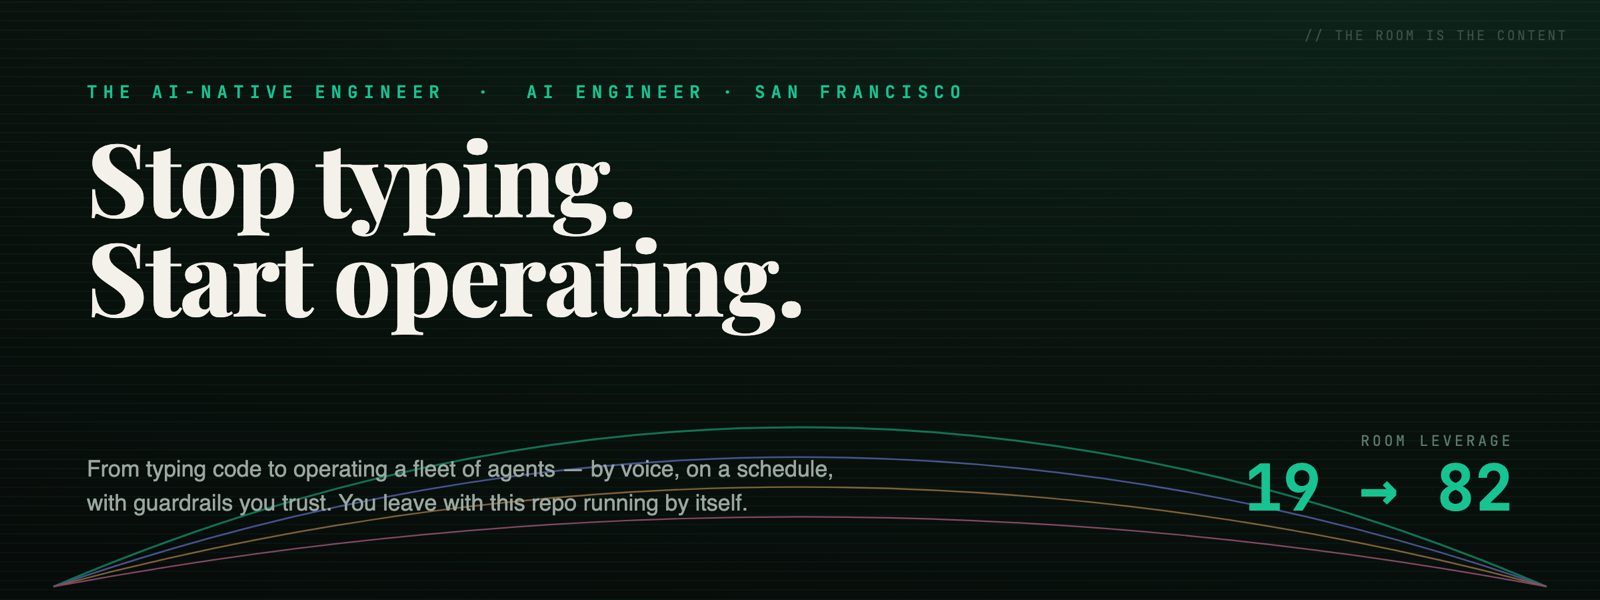
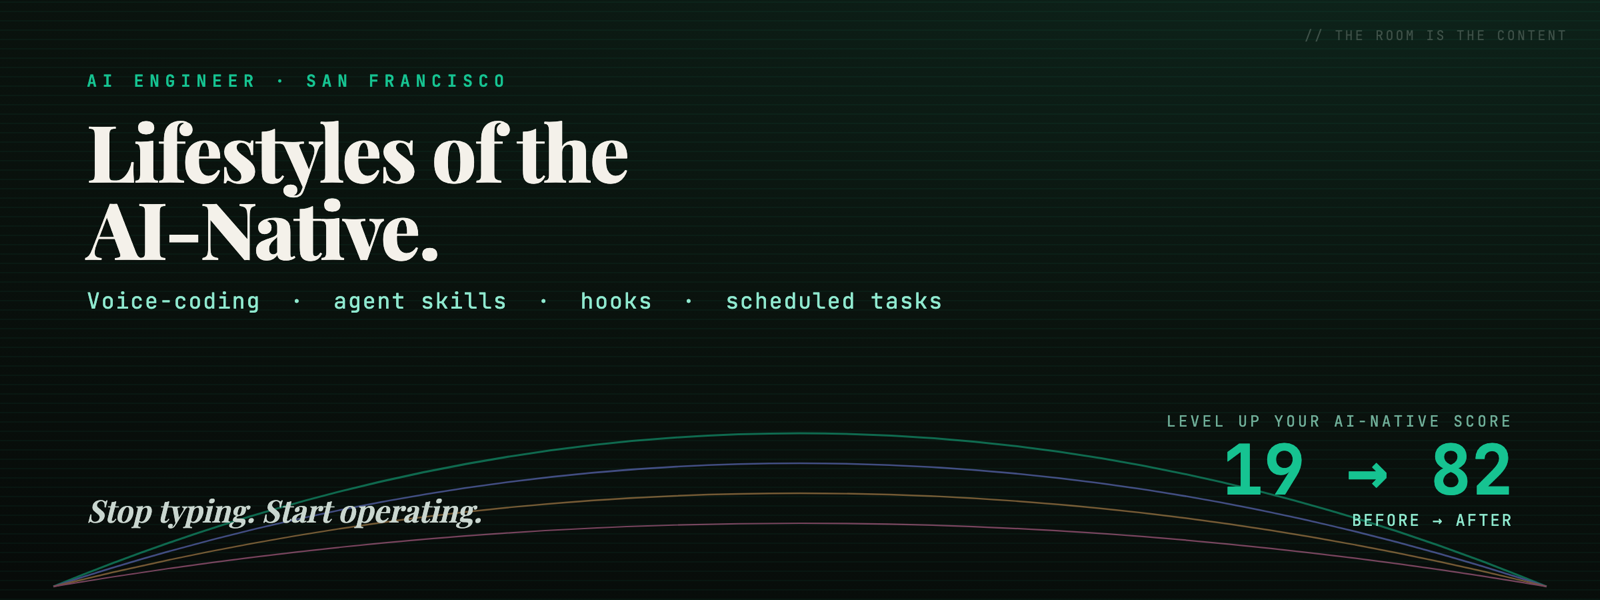
Real title "Lifestyles of the AI-Native"; remove placeholders; fix deck bugs
- Rename the workshop everywhere: "The AI-Native Engineer" → "Lifestyles of the
  AI-Native" (subtitle: voice-coding · agent skills · hooks · scheduled tasks).
  New hero banner; cover slide retitled + topic descriptor added. ("AI-Native
  Glossary" sub-brand preserved.)
- Hero banner: relabel the 19→82 stat to "LEVEL UP YOUR AI-NATIVE SCORE ·
  before → after" so it reads clearly (was "ROOM LEVERAGE").
- Remove the two placeholder slides (fun artifact / post-workshop) and their
  notes; clean the payoff slide's "(placeholder)" text.
- Fix a speaker-notes/section misalignment: the added "Why Handy" slide had no
  note (77 sections / 76 notes) — added it; deck now 75 sections == 75 notes,
  JSON valid.
- Redeployed deck, board, glossary with the new title.

Note on the AI-Native score: left Nick's scan/score as-is (scheduledJobs:0 is
deliberate + test-pinned; the score still rises via hooks/context/worktrees/
delegation; the scheduling payoff lives in the board's hours + automations).

diff --git a/slides/public/index.html b/slides/public/index.html
@@ -4,8 +4,8 @@
 <meta charset="utf-8" />
 <meta name="robots" content="noindex, nofollow" />
 <meta name="viewport" content="width=device-width, initial-scale=1" />
-<title>The AI-Native Engineer — AI Engineer SF</title>
-<meta name="description" content="The AI-Native Engineer — a hands-on workshop. Stop typing. Start operating." />
+<title>Lifestyles of the AI-Native — AI Engineer SF</title>
+<meta name="description" content="Lifestyles of the AI-Native — a hands-on workshop. Stop typing. Start operating." />
 <link rel="stylesheet" href="colors_and_type.css" />
 <link rel="stylesheet" href="deck-animations.css?v=1" />
 <style>
@@ -895,11 +895,12 @@
       <img src="img/qr-board.png" alt="Live board QR" class="qr-img" />
     </div>
     <div class="stripe"></div>
-    <div class="frame" style="padding-top: 230px; justify-content: flex-start; gap: 6px;">
+    <div class="frame" style="padding-top: 196px; justify-content: flex-start; gap: 6px;">
       <div class="eyebrow" style="margin-bottom: 30px;">AI Engineer &middot; San Francisco</div>
-      <h1 class="deck-title cover-line">The AI-Native</h1>
-      <h1 class="deck-title cover-line"><span class="underline-accent">Engineer</span>.</h1>
-      <p class="tagline">Stop typing. Start operating.</p>
+      <h1 class="deck-title cover-line" style="font-size: 132px;">Lifestyles of the</h1>
+      <h1 class="deck-title cover-line" style="font-size: 132px;"><span class="underline-accent">AI-Native</span>.</h1>
+      <p class="mono" style="font-size: 30px; color: #8fe9cf; letter-spacing: .04em; margin-top: 30px;">Voice-coding &middot; agent skills &middot; hooks &middot; scheduled tasks</p>
+      <p class="tagline" style="margin-top: 18px;">Stop typing. Start operating.</p>
     </div>
     <div class="meta">
       <div>
@@ -1915,7 +1916,7 @@
       </div>
       <div class="mega">
         <div>+<span data-count-to="168" data-count-from="0">0</span></div>
-        <div class="unit">hours / week reclaimed &mdash; across the room <span class="subtle">(placeholder &mdash; the board fills in the real number live)</span></div>
+        <div class="unit">hours / week reclaimed &mdash; across the room <span class="subtle">(call out the live number from the board)</span></div>
       </div>
     </div>
   </section>
@@ -2065,29 +2066,6 @@
     </div>
   </section>
 
-  <!-- ============ 53 PLACEHOLDER · THE FUN ARTIFACT ============ -->
-  <section data-label="Placeholder · Fun artifact" class="grain">
-    <div class="frame" style="justify-content: center;">
-      <div class="eyebrow placeholder" style="margin-bottom: 36px;">Placeholder</div>
-      <h2 class="deck-h2" style="font-size: 104px; margin-bottom: 36px;">The fun artifact <span class="muted">(TBD)</span>.</h2>
-      <p class="lead muted" style="max-width: 1620px;">
-        A take-home built live from the room's own data &mdash; final form TBD. Drop the real artifact, screenshot, or QR here before the session.
-      </p>
-      <p class="ph-note">PLACEHOLDER &mdash; replace before presenting.</p>
-    </div>
-  </section>
-
-  <!-- ============ 54 PLACEHOLDER · POST-WORKSHOP ============ -->
-  <section data-label="Placeholder · Post workshop" class="grain">
-    <div class="frame" style="justify-content: center;">
-      <div class="eyebrow placeholder" style="margin-bottom: 36px;">Placeholder</div>
-      <h2 class="deck-h2" style="font-size: 104px; margin-bottom: 36px;">Post-workshop: keep <span class="underline-accent">building</span>.</h2>
-      <p class="lead muted" style="max-width: 1620px;">
-        Where to go next &mdash; the repo, the schedule you set, and how to reach us. Fill in the real links/QRs before the session.
-      </p>
-      <p class="ph-note">PLACEHOLDER &mdash; replace before presenting.</p>
-    </div>
-  </section>
 
 </deck-stage>
 
@@ -2119,6 +2097,7 @@
   "Good driving. Say the outcome, not the keystrokes. Contrast the muted keystroke list against the clean intent.",
   "What good voice prompts sound like. Three real examples — fix, refactor, non-code. State the outcome; let the agent choose the keystrokes.",
   "The unlock. Big line. 180 wpm; manufacture work in parallel. Capstone of the voice teaching.",
+  "Why Handy. Free, local, private, on-device — versus cloud dictation like WisprFlow (which has its place). For a room of 100 laptops, local + free + no sign-up wins.",
   "Now you try it — Voice. Hands off the keyboard. Signal it's time to practice.",
   "Activity — get voice working. Give them ~5 minutes; walk the room.",
   "Activity — fix a bug out loud. Give them a few minutes; walk the room. Push them to keep talking, no keyboard.",
@@ -2154,7 +2133,7 @@
   "Now you try it — Scheduled tasks. Set it once; let it run without you.",
   "Activity — schedule your work. Give them several minutes; walk the room. Help them phrase the recurring job.",
   "Activity — close the loop. Give them a minute; walk the room. Then watch the room migrate from toil to leverage.",
-  "The payoff. Mirror the board: toil migrates to leverage. The +168 is a placeholder — call out the real number from the live board.",
+  "The payoff. Mirror the board: toil migrates to leverage. The +168 is illustrative — call out the real number from the live board.",
   "Questions divider. Dead-air insurance — skip if you're on time; rich if you're not.",
   "Q — slower than typing? You're not dictating syntax; you state the outcome and the agent writes it. Speed of thought, ~150 wpm, not ~60.",
   "Q — talk the whole time? No. Voice is for direction; read, click, type when faster. Operators switch fluidly.",
@@ -2166,9 +2145,7 @@
   "Q — need to be a strong engineer? No. The skill is describing outcomes and setting up gates — leverage for any level.",
   "Q — after today? Keep the repo, the scheduled task, the glossary. Re-run a check-in next week to see your before→after.",
   "Keep building. You keep all of it: the repo and skills, your scheduled task (still running Monday), the glossary, your before→after on the board.",
-  "Close. You're an operator now. Recap the four ticked items. Keep the repo, keep the scheduled task.",
-  "PLACEHOLDER — the fun artifact, TBD. Swap in the real take-home before presenting.",
-  "PLACEHOLDER — post-workshop: keep building. Add the real links/QRs before presenting."
+  "Close. You're an operator now. Recap the four ticked items. Keep the repo, keep the scheduled task."
 ]
 </script>
 

diff --git a/board/admin.html b/board/admin.html
@@ -3,7 +3,7 @@
 <head>
 <meta charset="utf-8">
 <meta name="viewport" content="width=device-width, initial-scale=1">
-<title>The AI-Native Engineer — Admin</title>
+<title>Lifestyles of the AI-Native — Admin</title>
 <style>
   /* refined dark "terminal" palette — matches the board */
   :root { --bg:#0d1117; --panel:#141b26; --ink:#e8edf4; --dim:#65748a; --acc:#16c391; --line:#243044; }
@@ -33,7 +33,7 @@
 </head>
 <body>
   <div class="card">
-    <div class="eyebrow">The AI-Native Engineer · AIE SF</div>
+    <div class="eyebrow">Lifestyles of the AI-Native · AIE SF</div>
     <h1>Board admin</h1>
     <label>Admin token</label>
     <input id="tok" type="password" placeholder="aieadmin-…" autocomplete="off">

diff --git a/board/board.html b/board/board.html
@@ -25,7 +25,7 @@
 <head>
 <meta charset="utf-8">
 <meta name="viewport" content="width=device-width, initial-scale=1">
-<title>The AI-Native Engineer — The Room, Right Now</title>
+<title>Lifestyles of the AI-Native — The Room, Right Now</title>
 <style>
 /* No @import, no /fonts/, no CDN — pure system stacks (offline-safe). */
 
@@ -245,7 +245,7 @@ body{
 
     <header id="masthead">
       <div class="mast-left">
-        <div class="eyebrow">The AI-Native Engineer · AIE SF · The room, right now</div>
+        <div class="eyebrow">Lifestyles of the AI-Native · AIE SF · The room, right now</div>
         <h1 id="headline">Reading the room…</h1>
         <div id="phase-line"><span class="dot"></span><span id="phase-text">Walking in</span></div>
       </div>

diff --git a/board/src/index.ts b/board/src/index.ts
@@ -1,5 +1,5 @@
 /**
- * aie-board — live room board for "The AI-Native Engineer" workshop (AIE SF).
+ * aie-board — live room board for "Lifestyles of the AI-Native" workshop (AIE SF).
  *
  * The realtime "wow" service. The coach check-in skill interviews each attendee
  * (opt-in, volunteered data only — nothing is ever scanned off their machine) and

diff --git a/glossary/src/worker.ts b/glossary/src/worker.ts
@@ -73,7 +73,7 @@ function buildSystemPrompt(): string {
     )
     .join('\n\n')
 
-  return `You are the live assistant for "The AI-Native Glossary" — a page built for The AI-Native Engineer workshop at AI Engineer in San Francisco, by Zack Proser and Nick Nisi. The audience is working engineers learning to operate fleets of agents by voice, in loops, behind verification gates, and on a schedule.
+  return `You are the live assistant for "The AI-Native Glossary" — a page built for Lifestyles of the AI-Native workshop at AI Engineer in San Francisco, by Zack Proser and Nick Nisi. The audience is working engineers learning to operate fleets of agents by voice, in loops, behind verification gates, and on a schedule.
 
 Your job: answer questions about AI concepts, the glossary's terms, and how an operator works — in the same voice as the glossary: plain language, direct, warm, concrete. There are no dumb questions.
 

diff --git a/.claude/skills/coach-checkin/SKILL.md b/.claude/skills/coach-checkin/SKILL.md
@@ -1,11 +1,11 @@
 ---
 name: coach-checkin
-description: Run the opt-in AI-Native Engineer workshop check-in. Use at the start of the workshop and again at the close. Auto-detects opening vs closing, runs the short interview, records your AI-Native score from a LOCAL scan at the open, and at the close posts your answers and your before→after score (anonymously) to the live room board. Triggers on "check in", "coach check-in", "workshop check-in", "run my workshop check-in", "closing check-in", or "share my workflow".
+description: Run the opt-in Lifestyles of the AI-Native workshop check-in. Use at the start of the workshop and again at the close. Auto-detects opening vs closing, runs the short interview, records your AI-Native score from a LOCAL scan at the open, and at the close posts your answers and your before→after score (anonymously) to the live room board. Triggers on "check in", "coach check-in", "workshop check-in", "run my workshop check-in", "closing check-in", or "share my workflow".
 ---
 
 # Coach Check-in
 
-A short, **opt-in** check-in for *The AI-Native Engineer* workshop. You run it twice — once walking in, once at the close. Each run does two things: a quick **interview** (what's eating your week → what you built) and an **AI-Native score** read from your local setup. Together they feed the live room board: where the room's toil is, which hooks and scheduled tasks to build, the engineering-hours/week the room reclaims, and the room's **before→after AI-Native score**.
+A short, **opt-in** check-in for *Lifestyles of the AI-Native* workshop. You run it twice — once walking in, once at the close. Each run does two things: a quick **interview** (what's eating your week → what you built) and an **AI-Native score** read from your local setup. Together they feed the live room board: where the room's toil is, which hooks and scheduled tasks to build, the engineering-hours/week the room reclaims, and the room's **before→after AI-Native score**.
 
 **Privacy is the whole point.** The score is computed by a **local** scan of your Claude setup (do you have hooks? a CLAUDE.md? worktrees? scheduled jobs?) that **never leaves your machine** — only the derived score *numbers* and the answers you explicitly confirm are sent. No file contents, no `git log`, no transcripts are ever transmitted. Responses are anonymous: a random participant id plus your role/stack — no name, no email.
 

diff --git a/.claude/skills/setup-workshop/SKILL.md b/.claude/skills/setup-workshop/SKILL.md
@@ -1,6 +1,6 @@
 ---
 name: setup-workshop
-description: One-shot setup for The AI-Native Engineer workshop. Installs and verifies everything an attendee needs for the full hour — Bun (the check-in tool), the Codex CLI (Block 3 adversarial review), Handy (Block 1 voice), and git — then confirms the repo is wired up and hands off to the opening check-in. Triggers on "set me up for the workshop", "get me set up", "workshop setup", "set up the workshop", or starting the workshop.
+description: One-shot setup for Lifestyles of the AI-Native workshop. Installs and verifies everything an attendee needs for the full hour — Bun (the check-in tool), the Codex CLI (Block 3 adversarial review), Handy (Block 1 voice), and git — then confirms the repo is wired up and hands off to the opening check-in. Triggers on "set me up for the workshop", "get me set up", "workshop setup", "set up the workshop", or starting the workshop.
 ---
 
 # Set up the workshop
@@ -42,7 +42,7 @@ The fast path. This gets an attendee from a freshly-cloned repo to **ready for B
 
    ```
    ══════════════════════════════════════════════════════════
-    AI-Native Engineer · workshop setup
+    Lifestyles of the AI-Native · workshop setup
    ══════════════════════════════════════════════════════════
     [✓] Bun         1.3.14
     [✓] Codex CLI   0.x installed

diff --git a/slides/README.md b/slides/README.md
@@ -1,6 +1,6 @@
-# The AI-Native Engineer — slides
+# Lifestyles of the AI-Native — slides
 
-Animated HTML slide deck for the **"The AI-Native Engineer"** workshop
+Animated HTML slide deck for the **"Lifestyles of the AI-Native"** workshop
 (AI Engineer / AIE, San Francisco). Tagline: *Stop typing. Start operating.*
 Presenters: Zack Proser & Nick Nisi.
 

diff --git a/.claude/skills/setup-handy/SKILL.md b/.claude/skills/setup-handy/SKILL.md
@@ -1,6 +1,6 @@
 ---
 name: setup-handy
-description: Install and configure Handy, the free, local, open-source push-to-talk voice dictation app, so the user can voice-code in any terminal. Use when someone wants to set up voice input / dictation / "talk to Claude", asks to "set up Handy" or "set up voice coding", or is starting the AI-Native Engineer workshop. Detects macOS vs. Windows and walks through install, model download, permissions, and a hotkey test.
+description: Install and configure Handy, the free, local, open-source push-to-talk voice dictation app, so the user can voice-code in any terminal. Use when someone wants to set up voice input / dictation / "talk to Claude", asks to "set up Handy" or "set up voice coding", or is starting the Lifestyles of the AI-Native workshop. Detects macOS vs. Windows and walks through install, model download, permissions, and a hotkey test.
 ---
 
 # Set up Handy (voice coding)

diff --git a/README.md b/README.md
@@ -1,6 +1,6 @@
 <div align="center">
 
-<a href="https://aie-deck.workos-internal.workers.dev"><img src="docs/images/readme-hero.png" alt="The AI-Native Engineer — Stop typing. Start operating. Room leverage 19 → 82." width="100%" /></a>
+<a href="https://aie-deck.workos-internal.workers.dev"><img src="docs/images/readme-hero.png" alt="Lifestyles of the AI-Native — voice-coding, agent skills, hooks, scheduled tasks. Level up your AI-Native score, 19 → 82." width="100%" /></a>
 
 <p>
   <img alt="Hands-on · ~1 hour" src="https://img.shields.io/badge/hands--on-~1_hour-16C391?style=for-the-badge&labelColor=0d1117" />

diff --git a/board/README.md b/board/README.md
@@ -1,6 +1,6 @@
 # Board — live room visualization
 
-The realtime "wow" service for *The AI-Native Engineer*. The [`coach-checkin`](../skills/coach-checkin/)
+The realtime "wow" service for *Lifestyles of the AI-Native*. The [`coach-checkin`](../skills/coach-checkin/)
 skill posts each attendee's opt-in answers here; the projector board aggregates the
 room live and reveals the marquee number — **total engineering-hours/week the room
 is about to reclaim.**

diff --git a/docs/run-of-show.md b/docs/run-of-show.md
@@ -1,4 +1,4 @@
-# Run of show — The AI-Native Engineer (AIE SF)
+# Run of show — Lifestyles of the AI-Native (AIE SF)
 
 A ~1-hour interactive workshop. **Not a talk** — every block is hands-on, one
 presenter drives the exact same repo end-to-end (clean recording), and the room's